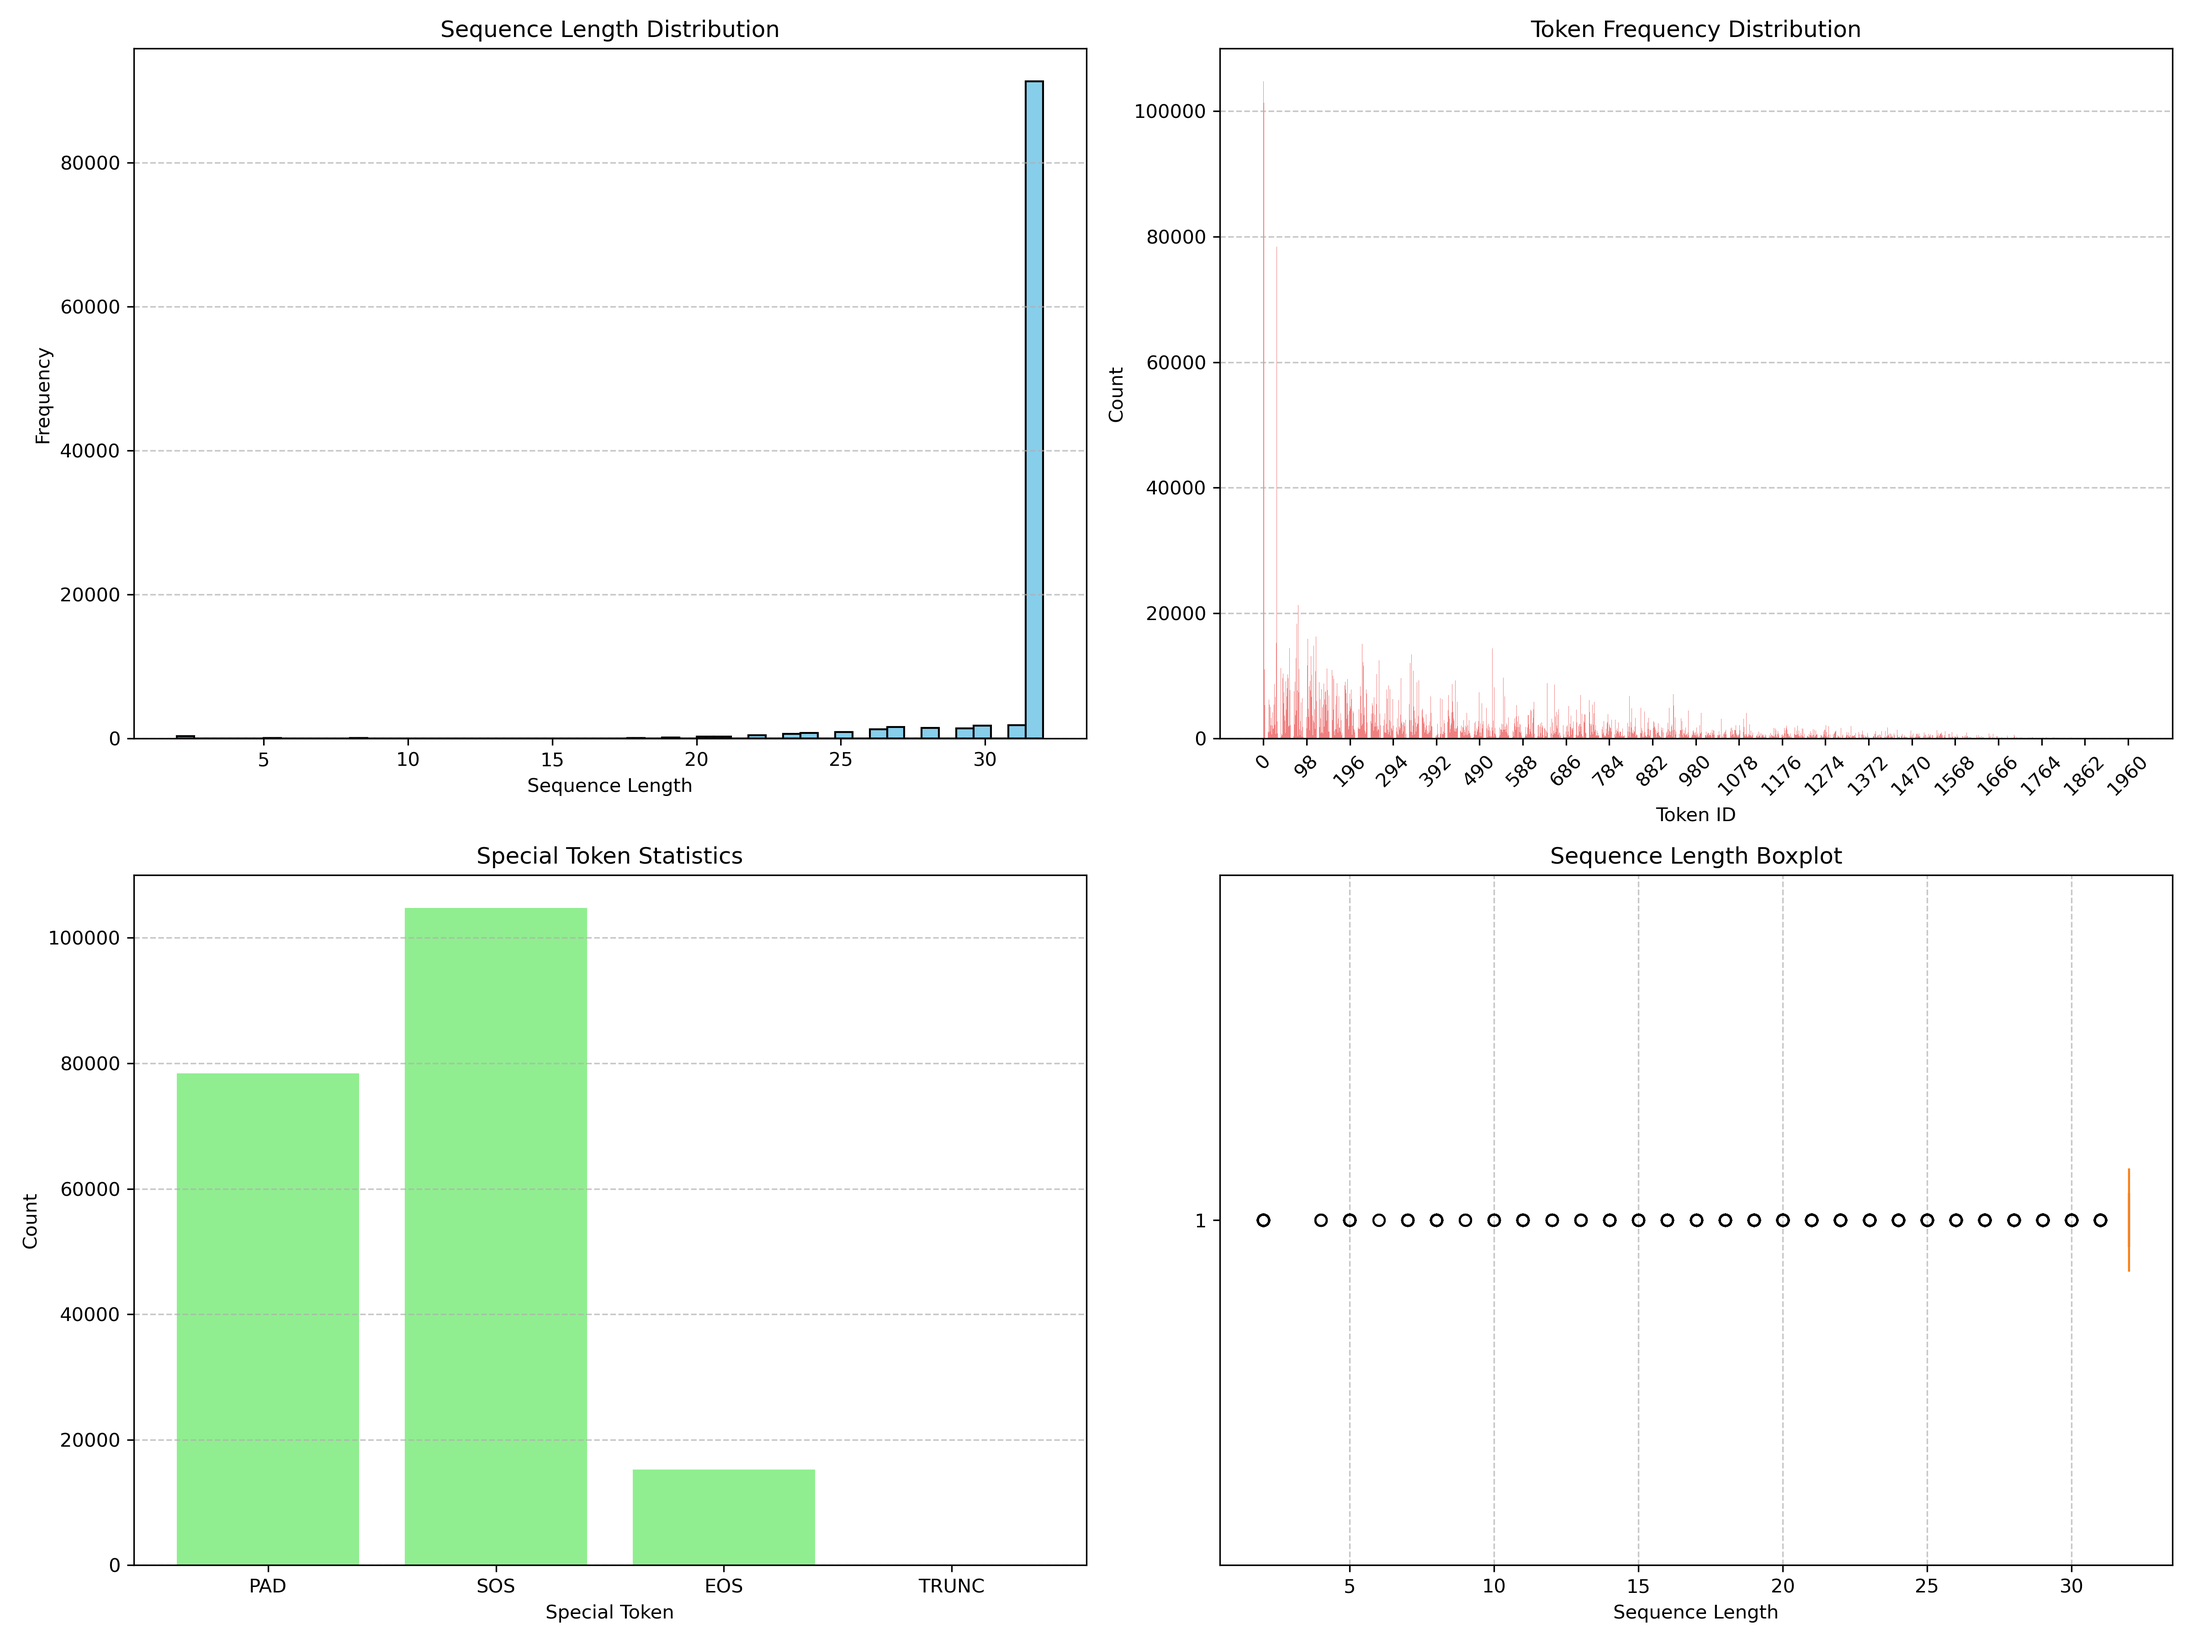
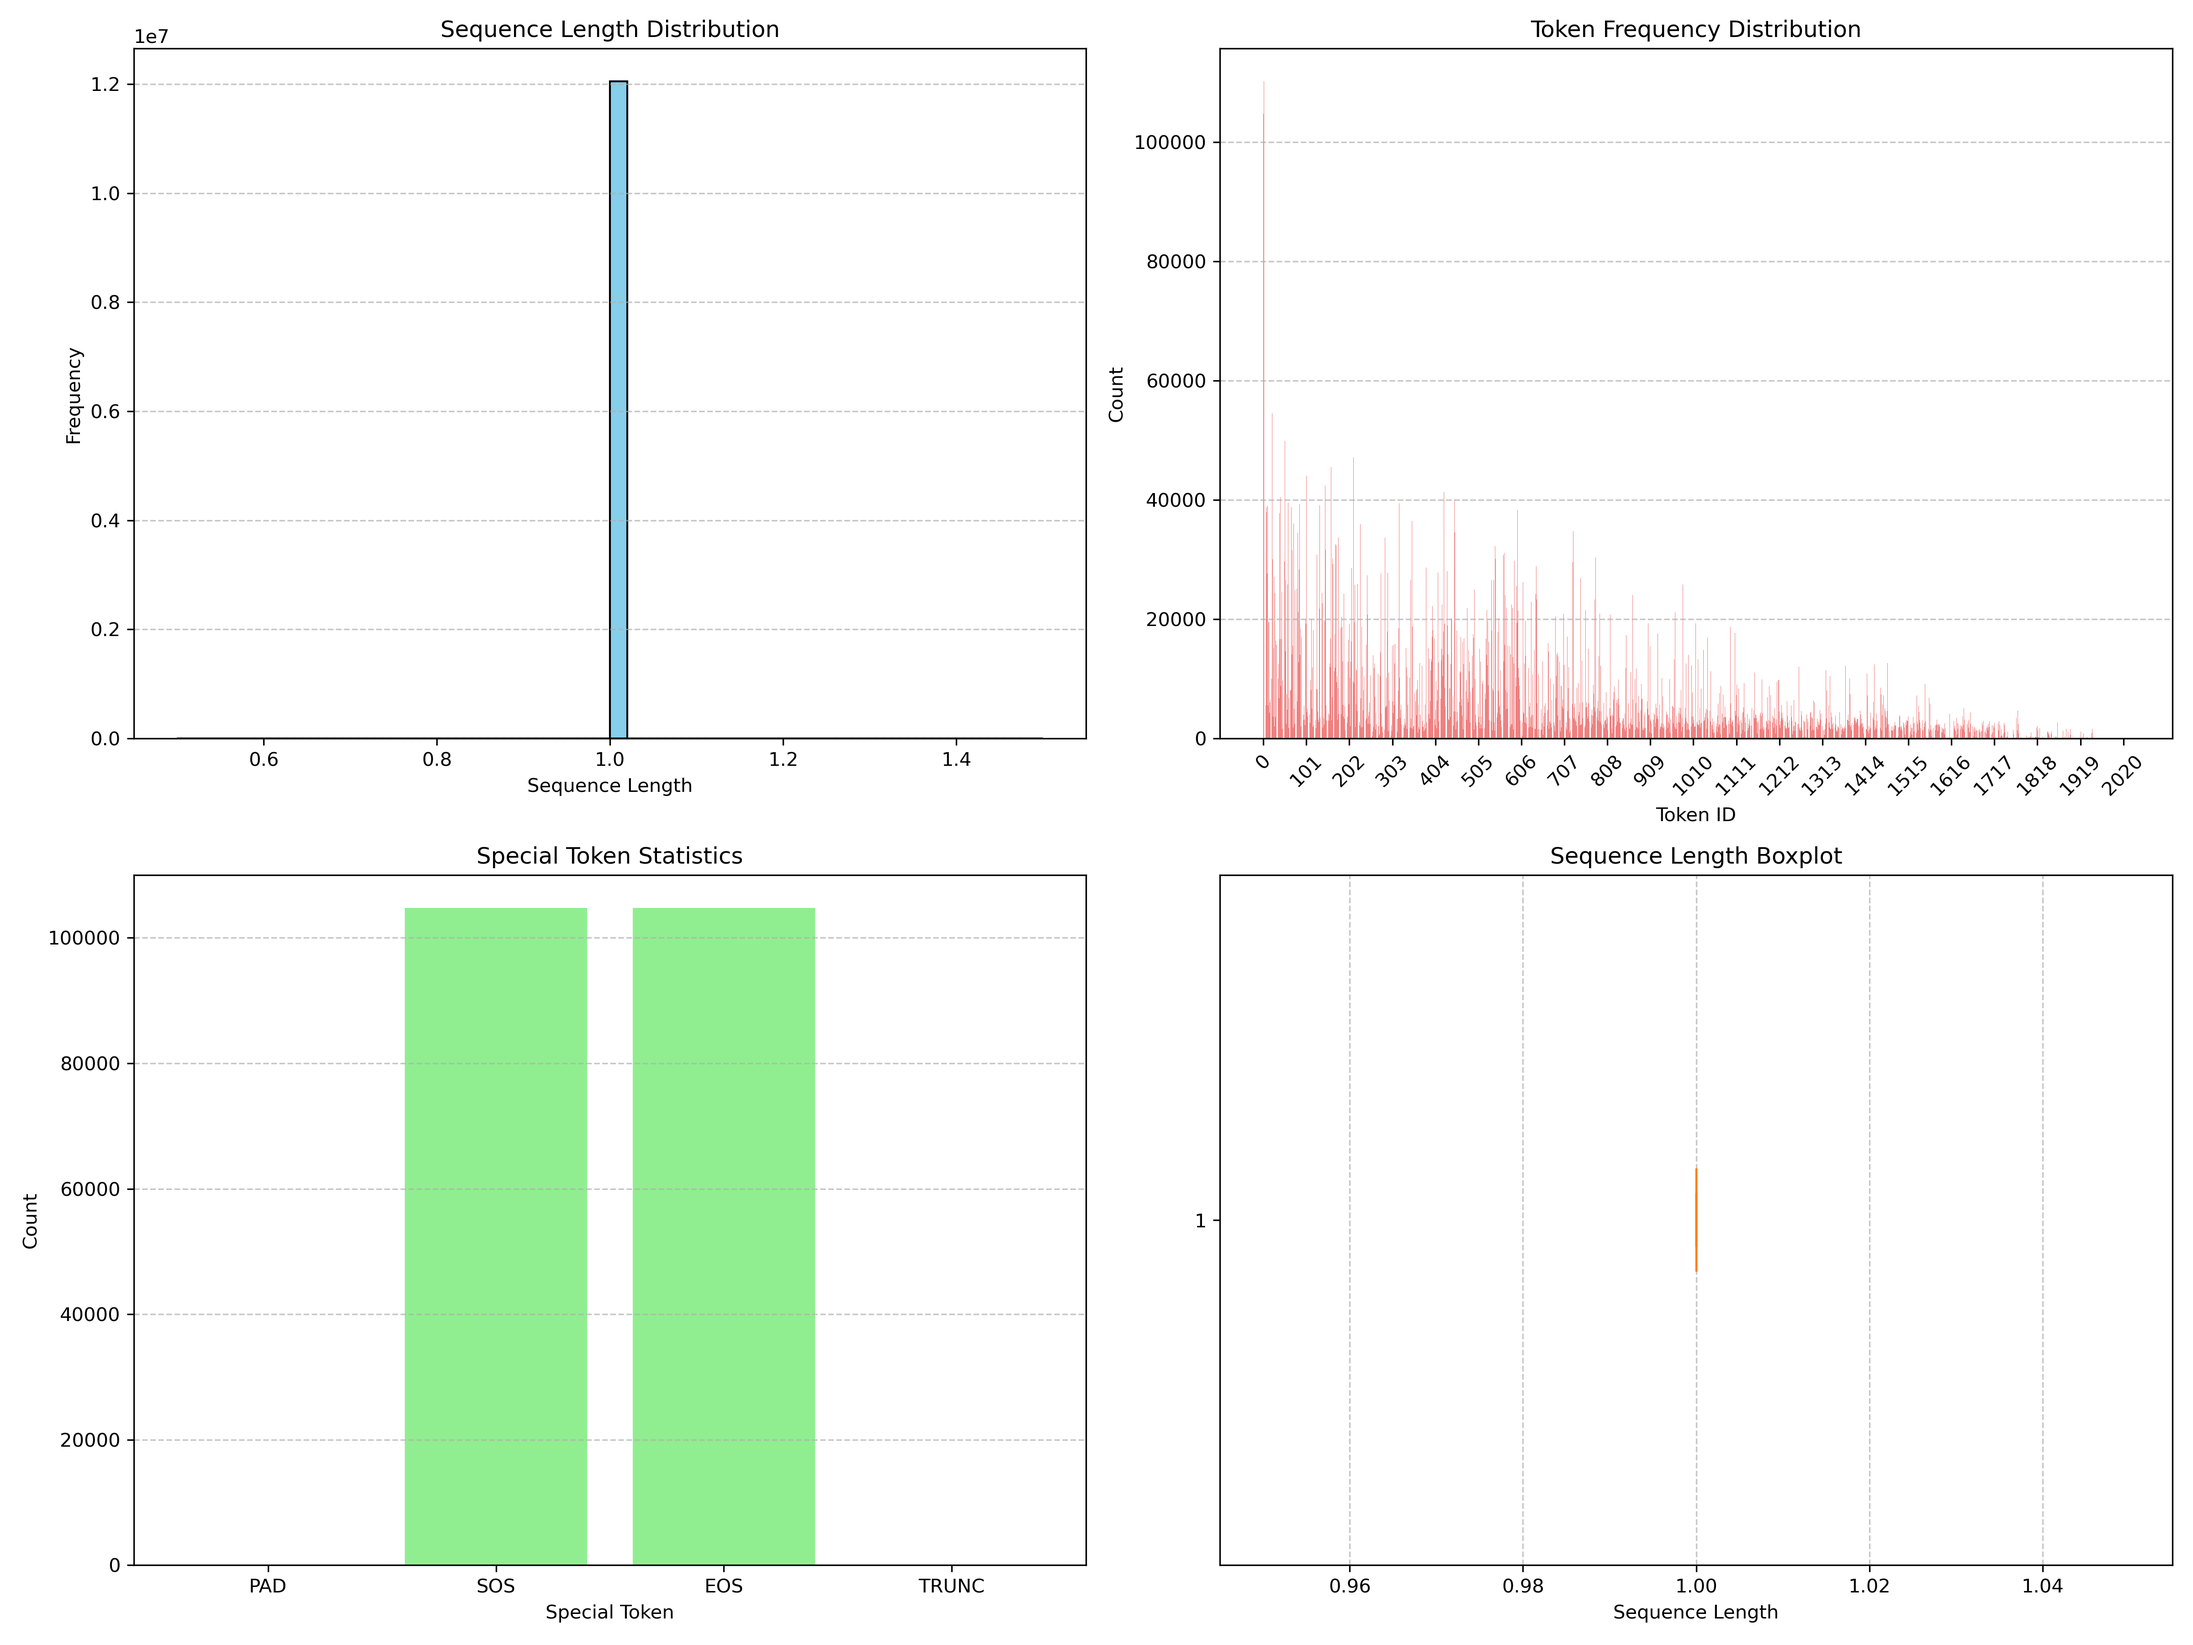
Optimized tokenization

diff --git a/CUPY/models/utils/tokenize_data_fast.py b/CUPY/models/utils/tokenize_data_fast.py
@@ -117,17 +117,19 @@ def tokenize_dataset_to_bin(self, files_paths: str | Path | Sequence[str | Path]
     Create a flat array
     """
     if (manually_add_sos_eos):
-        token_sequence = []
+        token_sequence = np.empty(total_number_of_tokens, dtype=np.int16)
+        current_position = 0
         
         for ids in all_ids:
-            # Start with a start token
-            token_sequence.extend([sos_token] + ids + [eos_token])
+            seq_len = len(ids)
+            
+            token_sequence[current_position] = sos_token
+            token_sequence[current_position + 1:current_position + 1 + seq_len] = ids 
+            token_sequence[current_position + 1 + seq_len] = eos_token
+            
+            current_position += seq_len + 2
     # Convert to numpy 
-    print(len(token_sequence))
-    token_array = np.array(token_sequence, dtype = np.int16)
-    
-    
-    
+    print(f"Final array length: {len(token_array)}")
     
     
     if(verbose):
@@ -261,66 +263,79 @@ def visualize_tokenized_data(token_array, pad_token_id, sos_token_id, eos_token_
 
 def visualize_tokenized_data_combined(token_array, pad_token_id, sos_token_id, eos_token_id, trunc_token_id,
                                       output_path="/csghome/hpdc04/Transformer_Code/tokenization_summary_plots/",
-                                      subset = None):
-
+                                      subset=None):
+    
     os.makedirs(output_path, exist_ok=True)
     output_path = Path(output_path, f"combined_visualization_{config.context_length}_{config.vo_size}_{config.tokenizer_name_str}_{subset}_manual_tokens_{config.manually_set_sos_eos_trunc}.png")
     
     # Analyze sequence lengths
-    seq_lengths = [np.count_nonzero(row != pad_token_id) for row in token_array]
+    seq_lengths = [len(token_array)] if token_array.ndim == 1 else [np.count_nonzero(row != pad_token_id) for row in token_array]
     
     # Token frequencies
     token_flat = token_array.flatten()
     token_counts = Counter(token_flat)
     
-    # Special token counts
-    special_token_counts = {
-        "PAD": token_counts.get(pad_token_id, 0),
-        "SOS": token_counts.get(sos_token_id, 0),
-        "EOS": token_counts.get(eos_token_id, 0),
-        "TRUNC": token_counts.get(trunc_token_id, 0)  # Custom truncate token
+    # Special token counts with labels including IDs
+    special_labels = {
+        "PAD": pad_token_id,
+        "SOS": sos_token_id,
+        "EOS": eos_token_id,
+        "TRUNC": trunc_token_id
     }
+    special_token_counts = {f"{k} ({v})": token_counts.get(v, 0) for k, v in special_labels.items()}
 
-    # Create a figure with subplots
-    fig, axs = plt.subplots(2, 2, figsize=(16, 12))
-    
-    # Plot 1: Sequence Length Distribution
-    axs[0, 0].hist(seq_lengths, bins=50, color="skyblue", edgecolor="black")
-    axs[0, 0].set_title("Sequence Length Distribution")
-    axs[0, 0].set_xlabel("Sequence Length")
-    axs[0, 0].set_ylabel("Frequency")
-    axs[0, 0].grid(axis="y", linestyle="--", alpha=0.7)
+    # Create figure with subplots
+    plt.figure(figsize=(18, 12))
+    plt.suptitle(f"Tokenization Analysis - {subset.capitalize()} Set", y=1.02, fontsize=14)
 
-    # Plot 2: Token Frequency Distribution
-    axs[0, 1].bar(range(len(token_counts)), token_counts.values(), color="lightcoral")
-    axs[0, 1].set_title("Token Frequency Distribution")
-    axs[0, 1].set_xlabel("Token ID")
-    axs[0, 1].set_ylabel("Count")
-    axs[0, 1].set_xticks(range(0, max(token_counts.keys()) + 1, max(1, len(token_counts) // 20)))
-    axs[0, 1].tick_params(axis="x", rotation=45)
-    axs[0, 1].grid(axis="y", linestyle="--", alpha=0.7)
+    # Plot 1: Sequence Length Distribution (Log Scale)
+    plt.subplot(2, 2, 1)
+    plt.hist(seq_lengths, bins=50, color="skyblue", edgecolor="black", log=True)
+    plt.title("Sequence Length Distribution (Log Scale)")
+    plt.xlabel("Sequence Length (tokens)")
+    plt.ylabel("Log Frequency")
+    plt.grid(axis="y", linestyle="--", alpha=0.7)
+
+    # Plot 2: Top 20 Frequent Tokens
+    plt.subplot(2, 2, 2)
+    top_tokens = token_counts.most_common(20)
+    plt.barh([str(t[0]) for t in top_tokens], [t[1] for t in top_tokens], color="salmon")
+    plt.title("Top 20 Frequent Tokens")
+    plt.xlabel("Count")
+    plt.gca().invert_yaxis()  # Highest count at top
+    plt.grid(axis="x", linestyle="--", alpha=0.7)
 
     # Plot 3: Special Token Statistics
-    axs[1, 0].bar(special_token_counts.keys(), special_token_counts.values(), color="lightgreen")
-    axs[1, 0].set_title("Special Token Statistics")
-    axs[1, 0].set_xlabel("Special Token")
-    axs[1, 0].set_ylabel("Count")
-    axs[1, 0].grid(axis="y", linestyle="--", alpha=0.7)
+    plt.subplot(2, 2, 3)
+    bars = plt.bar(special_token_counts.keys(), special_token_counts.values(), color="lightgreen")
+    plt.title("Special Token Counts")
+    plt.ylabel("Count")
+    plt.xticks(rotation=45, ha="right")
+    # Add value labels
+    for bar in bars:
+        height = bar.get_height()
+        plt.text(bar.get_x() + bar.get_width()/2., height,
+                 f'{height:,}',
+                 ha='center', va='bottom')
+    plt.grid(axis="y", linestyle="--", alpha=0.7)
 
-    # Plot 4: Sequence Length Boxplot
-    axs[1, 1].boxplot(seq_lengths, vert=False, patch_artist=True, boxprops=dict(facecolor="lightblue"))
-    axs[1, 1].set_title("Sequence Length Boxplot")
-    axs[1, 1].set_xlabel("Sequence Length")
-    axs[1, 1].grid(axis="x", linestyle="--", alpha=0.7)
-    
+    # Plot 4: Boxplot of Sequence Lengths
+    plt.subplot(2, 2, 4)
+    plt.boxplot(seq_lengths, vert=True, patch_artist=True, 
+               boxprops=dict(facecolor="lightblue"), showfliers=False)
+    plt.title("Sequence Length Distribution")
+    plt.ylabel("Tokens")
+    plt.xticks([1], ["All Sequences"])
+    plt.grid(axis="y", linestyle="--", alpha=0.7)
+
     # Adjust layout
     plt.tight_layout()
     
     # Save the figure
-    plt.savefig(output_path, dpi=300)
+    plt.savefig(output_path, bbox_inches="tight", dpi=300)
     plt.close()
     print(f"Combined visualization saved at: {output_path}")
-    
+
     print("Token Frequency Sample (Top 10):")
     print(dict(Counter(token_flat).most_common(10)))
 

diff --git a/CUPY/models/GoePT/train.py b/CUPY/models/GoePT/train.py
@@ -74,11 +74,11 @@ def read_datasets(split, data_dir, context_length, batch_size, rng):
     # https://stackoverflow.com/questions/45132940/numpy-memmap-memory-usage-want-to-iterate-once/61472122#61472122
 
     if split == 'train':
-        data = np.memmap(os.path.join(data_dir, f'{config.vo_size}_train_{config.tokenizer_name_str}_seq_len_{config.context_length}_manual_tokens_{config.manually_set_sos_eos_trunc}.bin'), dtype=np.uint16, mode='r')
+        data = np.memmap(os.path.join(data_dir, f'{config.vo_size}_train_{config.tokenizer_name_str}_manual_tokens_{config.manually_set_sos_eos_trunc}.bin'), dtype=np.uint16, mode='r')
     elif split == 'test':
-        data = np.memmap(os.path.join(data_dir, f'{config.vo_size}_test_{config.tokenizer_name_str}_seq_len_{config.context_length}_manual_tokens_{config.manually_set_sos_eos_trunc}.bin'), dtype=np.uint16, mode='r')
+        data = np.memmap(os.path.join(data_dir, f'{config.vo_size}_test_{config.tokenizer_name_str}_manual_tokens_{config.manually_set_sos_eos_trunc}.bin'), dtype=np.uint16, mode='r')
     else:
-        data = np.memmap(os.path.join(data_dir, f'{config.vo_size}_val_{config.tokenizer_name_str}_seq_len_{config.context_length}_manual_tokens_{config.manually_set_sos_eos_trunc}.bin'), dtype=np.uint16, mode='r')
+        data = np.memmap(os.path.join(data_dir, f'{config.vo_size}_val_{config.tokenizer_name_str}_manual_tokens_{config.manually_set_sos_eos_trunc}.bin'), dtype=np.uint16, mode='r')
     
     ix = rng.integers(len(data) - context_length, size=(batch_size,))
     

diff --git a/CUPY/models/GoePT/config.py b/CUPY/models/GoePT/config.py
@@ -5,7 +5,7 @@ from miditok import REMI, Structured
 data_dir = "/csghome/hpdc04/Transformer_Code/CUPY/models/datasets/tokenized/"  # Path to the dataset directory
 checkpoint_dir = "/csghome/hpdc04/Transformer_Code/checkpoints/"  # Path to save model checkpoints
 
-tokenizer_name = Structured
+tokenizer_name = REMI
 tokenizer_name_str = tokenizer_name.__name__
 vo_size = 2048
 
@@ -29,13 +29,13 @@ reg_alpha = 2.5
 relative_attention = True
 #####
 
-batch_size = 64  # Default batch size
-context_length = 32 # Sequence context length
-epochs = 120  # Number of epochs to train
+batch_size = 10  # Default batch size
+context_length = 384 # Sequence context length
+epochs = 500  # Number of epochs to train
 gradient_accumulation_steps = 32  # Steps for gradient accumulation
-learning_rate = 0.001 # Initial learning rate
+learning_rate = 0.0005 # Initial learning rate
 dropout_rate = 0.2 # Default dropout rate
-n_layer = 12  # Number of layers in the transformer
+n_layer = 6  # Number of layers in the transformer
 n_embd = 512  # Embedding size
 n_heads = 8  # Number of attention heads
 seed = 1  # Random seed

diff --git a/CUPY/models/utils/token_to_midi.py b/CUPY/models/utils/token_to_midi.py
@@ -6,7 +6,7 @@ import numpy as np
 
 tokenizer_name = REMI
 tokenizer_name_str = tokenizer_name.__name__
-vo_size = 1024
+vo_size = 2048
 vocab_file = f"/csghome/hpdc04/Transformer_Code/CUPY/models/tokenizers/tokenizer_{tokenizer_name_str}_{vo_size}.json"  # Path to the tokenizer vocabulary file
 
 
@@ -28,7 +28,6 @@ def main():
     print(f"Generated midi: {to_midi}")
     
     
-    to_midi.dump_midi(path = Path("/csghome/hpdc04/Transformer_Code/CUPY/models/utils/token_to_midi/", f"{tokenizer_name_str}_{vo_size}_{args.token}"))
 
 
 if __name__ == "__main__":

diff --git a/CUPY/models/utils/generate_train_val_test.py b/CUPY/models/utils/generate_train_val_test.py
@@ -143,7 +143,7 @@ for subset in train_val_test_path:
     ic(tokenized_data.shape)
 
     # SAVE
-    save_dir = os.path.join(output_path, f"{config.vo_size}_{subset}_{config.tokenizer_name_str}_seq_len_{config.context_length}_manual_tokens_{config.manually_set_sos_eos_trunc}.bin")
+    save_dir = os.path.join(output_path, f"{config.vo_size}_{subset}_{config.tokenizer_name_str}_manual_tokens_{config.manually_set_sos_eos_trunc}.bin")
     Path(output_path).mkdir(parents = True, exist_ok = True)
     tokenized_data.astype(np.uint16).tofile(save_dir)
     
